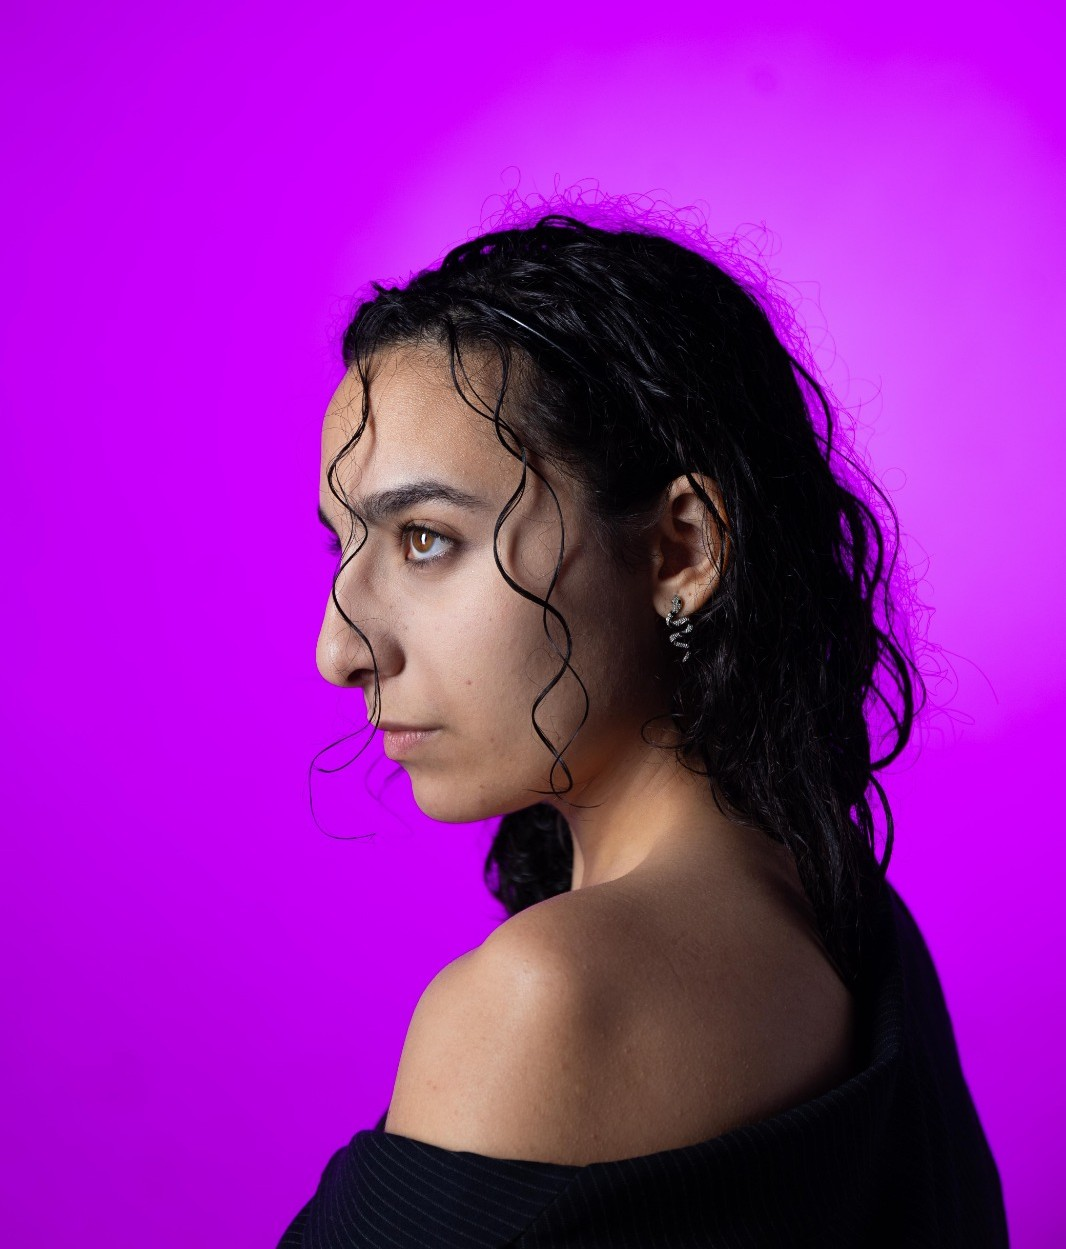
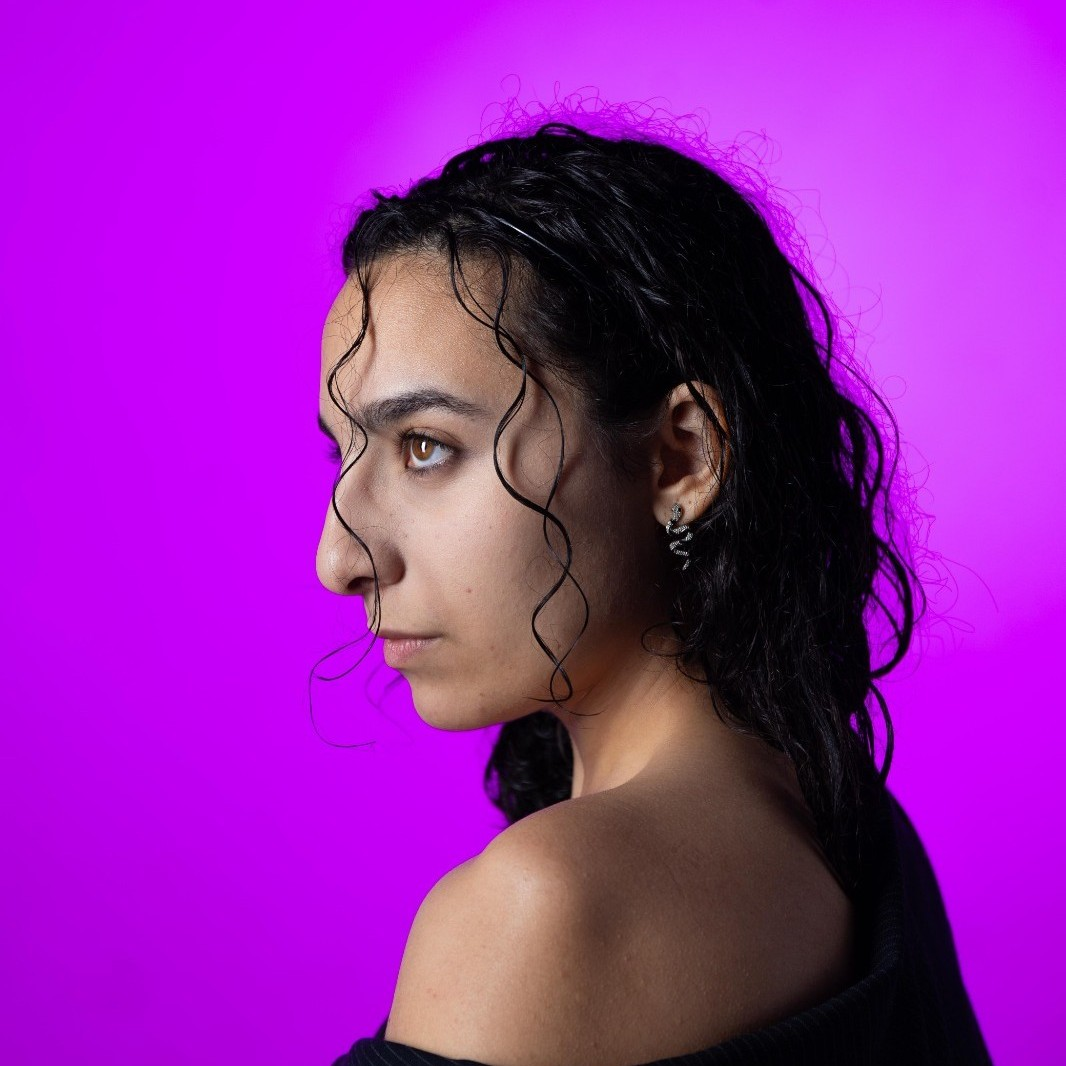
img

Changed region(s): [[0.2477, 0.0, 1.0, 1.0], [0.6501, 0.5263, 0.6811, 0.5572]]

diff --git a/sobremi.html b/sobremi.html
@@ -90,12 +90,11 @@
         <!-- Contenido principal -->
         <div class="row align-items-center g-5">
 
-          <!-- FOTO -->
-          <div class="col-md-5 text-center">
-            <img src="img/sobremmi1.jpg" class="img-fluid shadow-lg photo-frame"
-              style="width: 400px; height: 400px; object-fit: cover; border-radius: 50%;">
+         <!-- FOTO -->
+<div class="col-md-5 text-center">
+  <img src="img/sobremmi1.jpg" class="img-fluid shadow-lg photo-frame foto-redonda">
+</div>
 
-          </div>
 
           <!-- TEXTO -->
           <div class="col-md-7">
@@ -120,20 +119,20 @@
 
     </section>
 
-    <section class="my-5">
+    <section class="my-5 ">
       <!-- Grid visible solo en pantallas medianas o mayores -->
       <div class="container d-none d-lg-block">
         <div class="row text-center">
           <div class="col-md-4">
-            <img src="img/escena.jpg" class="img-fluid rounded-4 shadow"
+            <img src="img/escena.jpg" class="img-fluid rounded-4 shadow img-hover"
               style="width: 350px; height: 400px; object-fit: cover;">
           </div>
           <div class="col-md-4">
-            <img src="img/escena2.jpg" class="img-fluid rounded-4 shadow"
+            <img src="img/escena2.jpg" class="img-fluid rounded-4 shadow img-hover"
               style="width: 350px; height: 400px; object-fit: cover;">
           </div>
           <div class="col-md-4">
-            <img src="img/escena3.jpg" class="img-fluid rounded-4 shadow"
+            <img src="img/escena3.jpg" class="img-fluid rounded-4 shadow img-hover"
               style="width: 350px; height: 400px; object-fit: cover;">
           </div>
         </div>
@@ -210,8 +209,8 @@
           </div>
         </div>
         <!-- IMAGEN / PREVIEW (tu captura de pantalla) -->
-        <div class="col-lg-6 text-center">
-          <img src="/img/sobremi-insta.png" class="img-fluid rounded-4 shadow-lg" width="100%">
+        <div class="col-lg-6 text-center mt-3">
+          <img src="img/sobremi-insta.png" class="img-fluid rounded-4 shadow-lg" width="100%">
         </div>
 
 

diff --git a/css/style.css b/css/style.css
@@ -343,3 +343,11 @@ a {
     background-color: #ffffff1c;
     
 }
+/* Tamaño base (pantallas grandes) */
+.foto-redonda {
+ 
+ 
+  object-fit: cover;
+  border-radius: 50%;
+
+}
